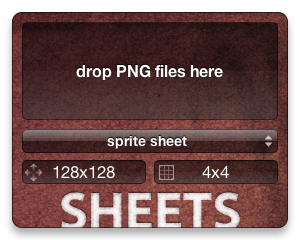
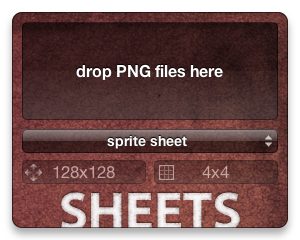
Version 2.0

Changed region(s): [[0.06, 0.6417, 0.93, 0.7875]]

diff --git a/Sheets.dcproj/project.wdgt/main.js b/Sheets.dcproj/project.wdgt/main.js
@@ -121,7 +121,8 @@ var prefType = loadPref(wid+"type",0);
 var prefSize = loadPref(wid+"size","128x128");
 var prefTile = loadPref(wid+"tile","4x4");
 var prefLocation = loadPref(wid+"loc","/opt/local/bin/");
-var prefName = loadPref(wid+"name","spriteSheet");
+var prefNameSprite = loadPref(wid+"nameSprite","SpriteSheet");
+var prefNameFile = loadPref(wid+"nameFile","FileSheet-");
 
 // Preference Saving
 
@@ -141,7 +142,8 @@ function loadPrefs() {
 	document.getElementById("size").value = prefSize;
 	document.getElementById("tile").value = prefTile;
 	document.getElementById("loc").value = prefLocation;
-	document.getElementById("name").value = prefName;
+	document.getElementById("nameSprite").value = prefNameSprite;
+	document.getElementById("nameFile").value = prefNameFile;
 	updateOpacity();
 //	updateSize(size);
 }
@@ -158,7 +160,8 @@ function updatePrefs() {
 		widget.setPreferenceForKey(prefSize,wid+"size");
 		widget.setPreferenceForKey(prefTile,wid+"tile");
 		widget.setPreferenceForKey(prefLocation,wid+"loc");
-		widget.setPreferenceForKey(prefName,wid+"name");
+		widget.setPreferenceForKey(prefNameSprite,wid+"nameSprite");
+		widget.setPreferenceForKey(prefNameFile,wid+"nameFile");
 	}
 }
 
@@ -168,7 +171,8 @@ function erasePrefs() {
 		widget.setPreferenceForKey(null,wid+"size");
 		widget.setPreferenceForKey(null,wid+"tile");
 		widget.setPreferenceForKey(null,wid+"loc");
-		widget.setPreferenceForKey(null,wid+"name");
+		widget.setPreferenceForKey(null,wid+"nameSprite");
+		widget.setPreferenceForKey(null,wid+"nameFile");
 	}
 }
 
@@ -208,8 +212,12 @@ function updateLoc(event) {
 	prefLoc = document.getElementById("loc").value;
 }
 
-function updateName(event) {
-	prefName = document.getElementById("name").value;
+function updateNameSprite(event) {
+	prefNameSprite = document.getElementById("nameSprite").value;
+}
+
+function updateNameFile(event) {
+	prefNameFile = document.getElementById("nameFile").value;
 }
 
 // Be sure to assign these handlers for the ondragenter and ondragover events on your drop target. These handlers prevent Web Kit from processing drag events so you can handle the drop when it occurs.
@@ -232,11 +240,11 @@ function dragDrop(event) {
 		uri = uri.split("\n");
 		uri = uri.sort(sortAlphaNum);
 		var uriParts = uri[0].match(/(.+?)(\d+)(\.\w{3,4})$/);
+		var name = uriParts[1]+prefNameSprite+".png";
 		var tile = "";
 		var geometry = "";
 		var mode = "+0+0 ";
 		var padding = 4;
-		var name = uriParts[1]+prefName+".png";
 
 		if (prefType == 1) {
 			tile = "-tile x1";
@@ -253,6 +261,8 @@ function dragDrop(event) {
 //				padding = prefSize.split("x");
 //				padding = padding[0]*0.1;
 				mode = "+"+padding+"+"+padding+" -label '%f\n%[width]x%[height]' ";
+				uriParts = uri[0].match(/(.+?)([^\/]+)(\.\w{3,4})$/);
+				name = uriParts[1]+prefNameFile+uriParts[2]+".png";
 			}
 		}
 
@@ -363,24 +373,30 @@ function getKeyValue(plist, key) {
 // Auto Update
 
 function versionCheck(event) {
-return false; // REMOVE THIS LINE TO ENABLE VERSION CHECK
 	var request = new XMLHttpRequest();
 	var address = "http://iaian7.com/files/dashboard/sheets/version.php?RandomKey=" + Date.parse(new Date());
-//	alert(address);
-	request.open("GET", address,false);
+	request.onload = function() { versionCheckEnd(request); };
+	request.open("GET", address);
+//	request.setRequestHeader("Cache-Control", "no-cache");
 	request.send(null);
-	var versions = request.responseText.split("\n");
+}
 
-	var bundleVersion = getKeyValue("Info.plist", "CFBundleVersion"); 
-	var websiteVersion = versions[0];
-//	alert("bundleVersion: "+bundleVersion);
-//	alert("websiteVersion: "+websiteVersion);
+function versionCheckEnd(request){
+	if (request.status == 200) {
+		var versions = request.responseText.split("\n");
+		var bundleVersion = getKeyValue("Info.plist", "CFBundleVersion");
+		var websiteVersion = versions[0];
+		alert("bundleVersion: "+bundleVersion);
+		alert("websiteVersion: "+websiteVersion);
 
-	if (websiteVersion != bundleVersion) {
-		document.getElementById("newVersion").innerHTML = "version "+versions[0]+"<br/>"+versions[1];
-		showUpdate();
+		if (websiteVersion != bundleVersion) {
+			document.getElementById("newVersion").innerHTML = "version "+versions[0]+"<br/>"+versions[1];
+			return showUpdate();
+		} else {
+			alert("you have an up to date version");
+		}
 	} else {
-		alert("you have an up to date version, or there's been an error");
+		alert("there's been an error fetching HTTP data");
 	}
 }
 

diff --git a/Sheets.dcproj/project.wdgt/main.css b/Sheets.dcproj/project.wdgt/main.css
@@ -369,11 +369,11 @@ body {
     font-size: 10pt;
     text-align: left;
     left: 22px;
+    height: 30px;
+    top: 171px;
     margin-bottom: auto;
     right: 78px;
     width: auto;
-    top: 166px;
-    height: 30px;
 }
 
 #tile {
@@ -396,6 +396,7 @@ body {
     top: 136px;
     right: 0px;
     margin-left: auto;
+    opacity: 0.5;
     background-position: 50% 50%;
 }
 
@@ -419,6 +420,7 @@ body {
     top: 136px;
     right: 132px;
     margin-left: auto;
+    opacity: 0.5;
     background-position: 50% 50%;
 }
 
@@ -478,31 +480,6 @@ body {
     width: auto;
 }
 
-#name {
-    position: absolute;
-    font-family: HelveticaNeue;
-    color: rgb(255, 255, 255);
-    -webkit-border-top-left-radius: 5px 5px;
-    -webkit-border-top-right-radius: 5px 5px;
-    -webkit-border-bottom-left-radius: 5px 5px;
-    -webkit-border-bottom-right-radius: 5px 5px;
-    border-width: 1px;
-    background-color: rgba(0, 0, 0, 0);
-    background-repeat: repeat-x;
-    background-image: url(Images/formBackground%202.png);
-    border-style: solid;
-    width: 252px;
-    left: 22px;
-    font-size: 11pt;
-    overflow: hidden;
-    text-align: left;
-    border-color: rgba(0, 0, 0, 0.5);
-    margin-right: auto;
-    margin-bottom: auto;
-    top: 88px;
-    background-position: 50% 50%;
-}
-
 #img {
     width: 17px;
     height: 17px;
@@ -547,7 +524,73 @@ body {
     top: 98px;
 }
 
-#nameText {
+#nameSprite {
+    position: absolute;
+    font-family: HelveticaNeue;
+    color: rgb(255, 255, 255);
+    -webkit-border-top-left-radius: 5px 5px;
+    -webkit-border-top-right-radius: 5px 5px;
+    -webkit-border-bottom-left-radius: 5px 5px;
+    -webkit-border-bottom-right-radius: 5px 5px;
+    border-width: 1px;
+    background-color: rgba(0, 0, 0, 0);
+    background-repeat: repeat-x;
+    background-image: url(Images/formBackground%202.png);
+    border-style: solid;
+    width: 252px;
+    left: 22px;
+    font-size: 11pt;
+    overflow: hidden;
+    text-align: left;
+    border-color: rgba(0, 0, 0, 0.5);
+    margin-right: auto;
+    margin-bottom: auto;
+    top: 88px;
+    background-position: 50% 50%;
+}
+
+#nameFile {
+    position: absolute;
+    font-family: HelveticaNeue;
+    color: rgb(255, 255, 255);
+    -webkit-border-top-left-radius: 5px 5px;
+    -webkit-border-top-right-radius: 5px 5px;
+    -webkit-border-bottom-left-radius: 5px 5px;
+    -webkit-border-bottom-right-radius: 5px 5px;
+    border-width: 1px;
+    background-color: rgba(0, 0, 0, 0);
+    background-repeat: repeat-x;
+    background-image: url(Images/formBackground%202.png);
+    border-style: solid;
+    width: 252px;
+    left: 22px;
+    font-size: 11pt;
+    overflow: hidden;
+    text-align: left;
+    border-color: rgba(0, 0, 0, 0.5);
+    margin-right: auto;
+    top: 138px;
+    margin-bottom: auto;
+    background-position: 50% 50%;
+}
+
+#nameFileText {
+    font-family: HelveticaNeue;
+    text-overflow: ellipsis;
+    overflow: hidden;
+    position: absolute;
+    color: rgb(255, 255, 255);
+    font-size: 10pt;
+    text-align: left;
+    left: 22px;
+    height: 18px;
+    top: 122px;
+    margin-bottom: auto;
+    right: 22px;
+    width: auto;
+}
+
+#nameSpriteText {
     font-family: HelveticaNeue;
     text-overflow: ellipsis;
     overflow: hidden;

diff --git a/Sheets.dcproj/project.wdgt/main.html b/Sheets.dcproj/project.wdgt/main.html
@@ -51,8 +51,10 @@
         <img id="backImg" src="Images/back.png" alt="" apple-locked="true" apple-part="com.apple.Dashcode.part.backimage" apple-style=" image-radius: 10,10,10,10; image-border: 1; image-border-color: 0,0,0,0.5; image-border-width: 1; shadow-include-shadow: 1; shadow-offset: -1.00,-6.00; shadow-color: 0,0,0,0.3333;">
         <div apple-part="com.apple.Dashcode.part.text" class="apple-text apple-no-children" apple-text-overflow="ellipsis" id="locationText"></div>
         <input type="text" name="loc" value="/opt/local/bin/" class="apple-textfield apple-no-children" apple-part="com.apple.Dashcode.part.textfield" id="loc" onchange="updateLoc(event)" onkeyup="updateLoc(event)">
-        <div apple-part="com.apple.Dashcode.part.text" class="apple-text apple-no-children" apple-text-overflow="ellipsis" id="nameText"></div>
-        <input type="text" name="name" value="spriteSheet" class="apple-textfield apple-no-children" apple-part="com.apple.Dashcode.part.textfield" id="name" apple-text-overflow="" maxlength="0" onkeyup="updateName(event)" onchange="updateName(event)">
+        <div apple-part="com.apple.Dashcode.part.text" class="apple-text apple-no-children" apple-text-overflow="ellipsis" id="nameSpriteText"></div>
+        <input type="text" name="nameSprite" value="SpriteSheet" class="apple-textfield apple-no-children" apple-part="com.apple.Dashcode.part.textfield" id="nameSprite" apple-text-overflow="" maxlength="0" onkeyup="updateNameSprite(event)" onchange="updateNameSprite(event)">
+        <div apple-part="com.apple.Dashcode.part.text" class="apple-text apple-no-children" apple-text-overflow="ellipsis" id="nameFileText"></div>
+        <input type="text" name="nameFile" value="FileSheet-" class="apple-textfield apple-no-children" apple-part="com.apple.Dashcode.part.textfield" id="nameFile" apple-text-overflow="" maxlength="0" onkeyup="updateNameFile(event)" onchange="updateNameFile(event)">
         <div apple-part="com.apple.Dashcode.part.text" class="apple-text apple-no-children" apple-text-overflow="ellipsis" id="iaian7com" onclick="iaian7(event)"></div>
         <div apple-part="com.apple.Dashcode.part.text" class="apple-text apple-no-children" apple-text-overflow="ellipsis" id="text"></div>
         <div apple-part="com.apple.Dashcode.part.roundedtextbutton" class="apple-no-children" apple-style="image-theme: 0; image-shape: 3; image-button-type: 0; image-opacity: 1.00; image-top-color: 0,0,0,0.4; image-bottom-color: 0.6,0.6,0.6,1; image-radius: 5,5,5,5; image-border: 1; image-border-color: 0,0,0,0.5; image-border-width: 1; shine-on: 1; shine-strength: 0.20; shine-alpha-level: 0.20; shine-height: 0.50; glass-arc-height: 0.00; embossed-on: 0; embossed-depth: 1; embossed-shadow: 0.5; embossed-highlight: 0.5; shadow-include-shadow: 0;" id="doneSave"></div>

diff --git a/Sheets.dcproj/project.wdgt/Parts/setup.js b/Sheets.dcproj/project.wdgt/Parts/setup.js
@@ -13,7 +13,8 @@ var dashcodePartSpecs = {
     "iaian7com": { "creationFunction": "CreateText", "text": "iaian7com" },
     "info": { "backgroundStyle": "black", "creationFunction": "CreateInfoButton", "foregroundStyle": "white", "frontID": "front", "onclick": "showBack" },
     "locationText": { "creationFunction": "CreateText", "text": "locationText" },
-    "nameText": { "creationFunction": "CreateText", "text": "nameText" },
+    "nameFileText": { "creationFunction": "CreateText", "text": "nameFileText" },
+    "nameSpriteText": { "creationFunction": "CreateText", "text": "nameSpriteText" },
     "new": { "creationFunction": "CreateText", "text": "new" },
     "newVersion": { "creationFunction": "CreateText", "text": "newVersion" },
     "skip": { "creationFunction": "CreateButton", "leftImageWidth": 5, "onclick": "showMain", "rightImageWidth": 5, "text": "skip" },

diff --git a/Sheets.dcproj/project.wdgt/en.lproj/localizedStrings.js b/Sheets.dcproj/project.wdgt/en.lproj/localizedStrings.js
@@ -12,7 +12,10 @@ var localizedStrings = {
     "fail": "file processing failed\nplease try again",
     "iaian7com": "For more information, please visit iaian7.com/dashboard/sheets",
     "locationText": "ImageMagick install location",
-    "nameText": "output file suffix",
+    "nameFileText": "file sheet prefix",
+    "nameSpriteText": "sprite sheet suffix",
+    "nameText": "sprite sheet suffix",
+    "nameText2": "file sheet prefix",
     "new": "new update available!",
     "newVersion": "version number\nversion description",
     "skip": "skip version",
